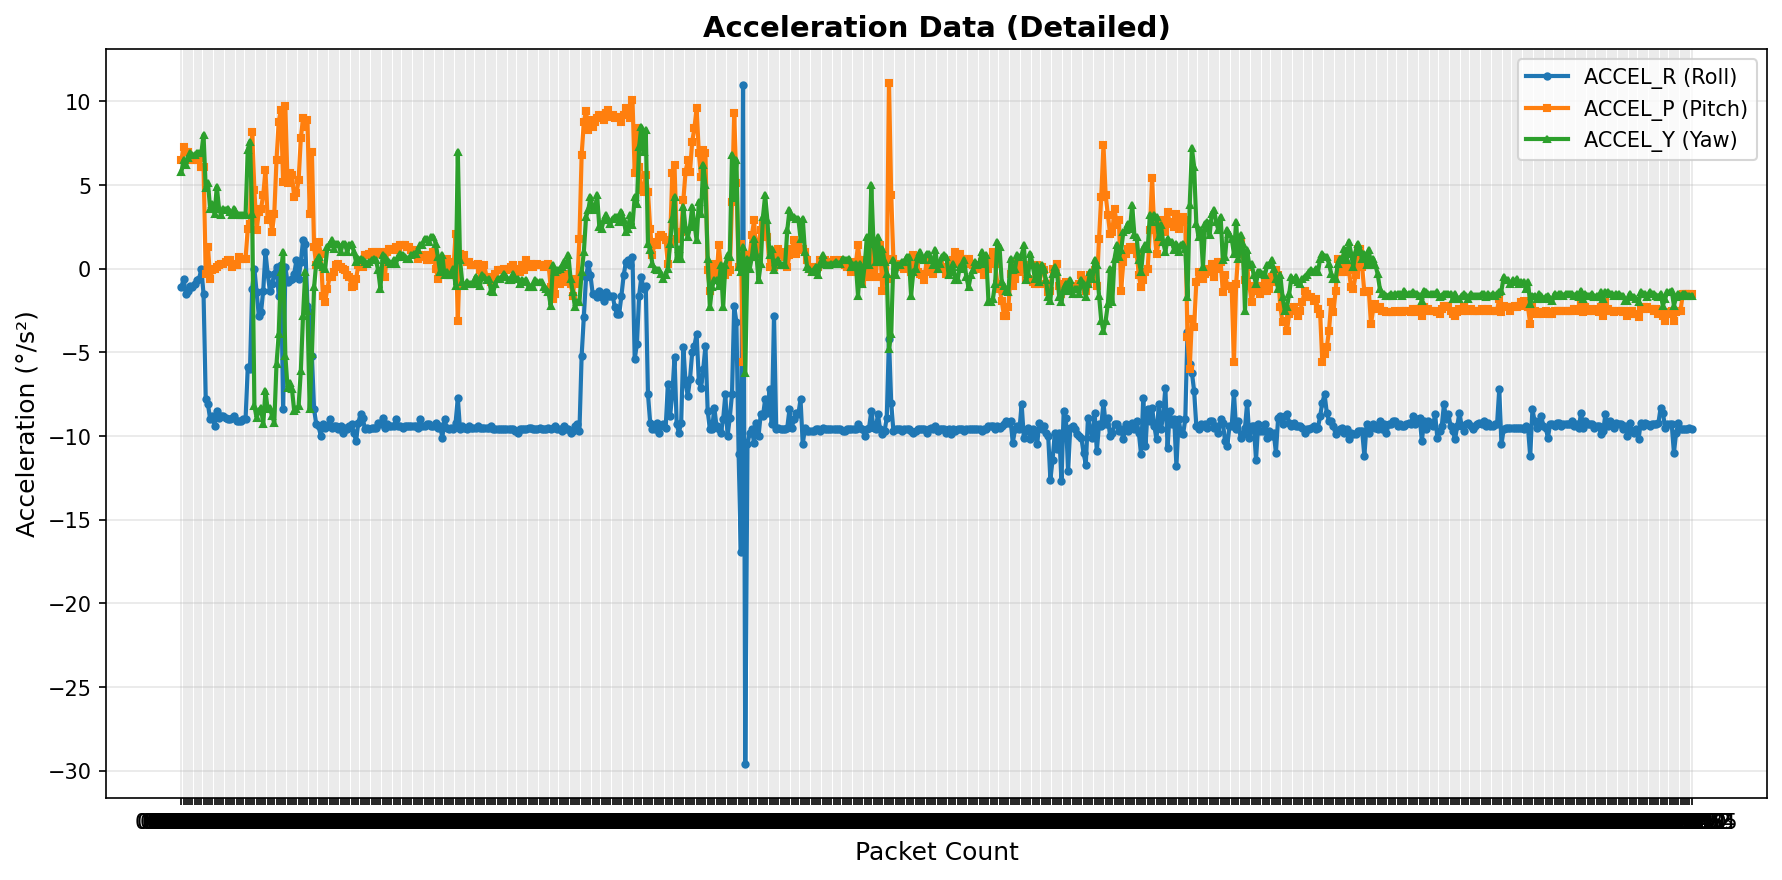
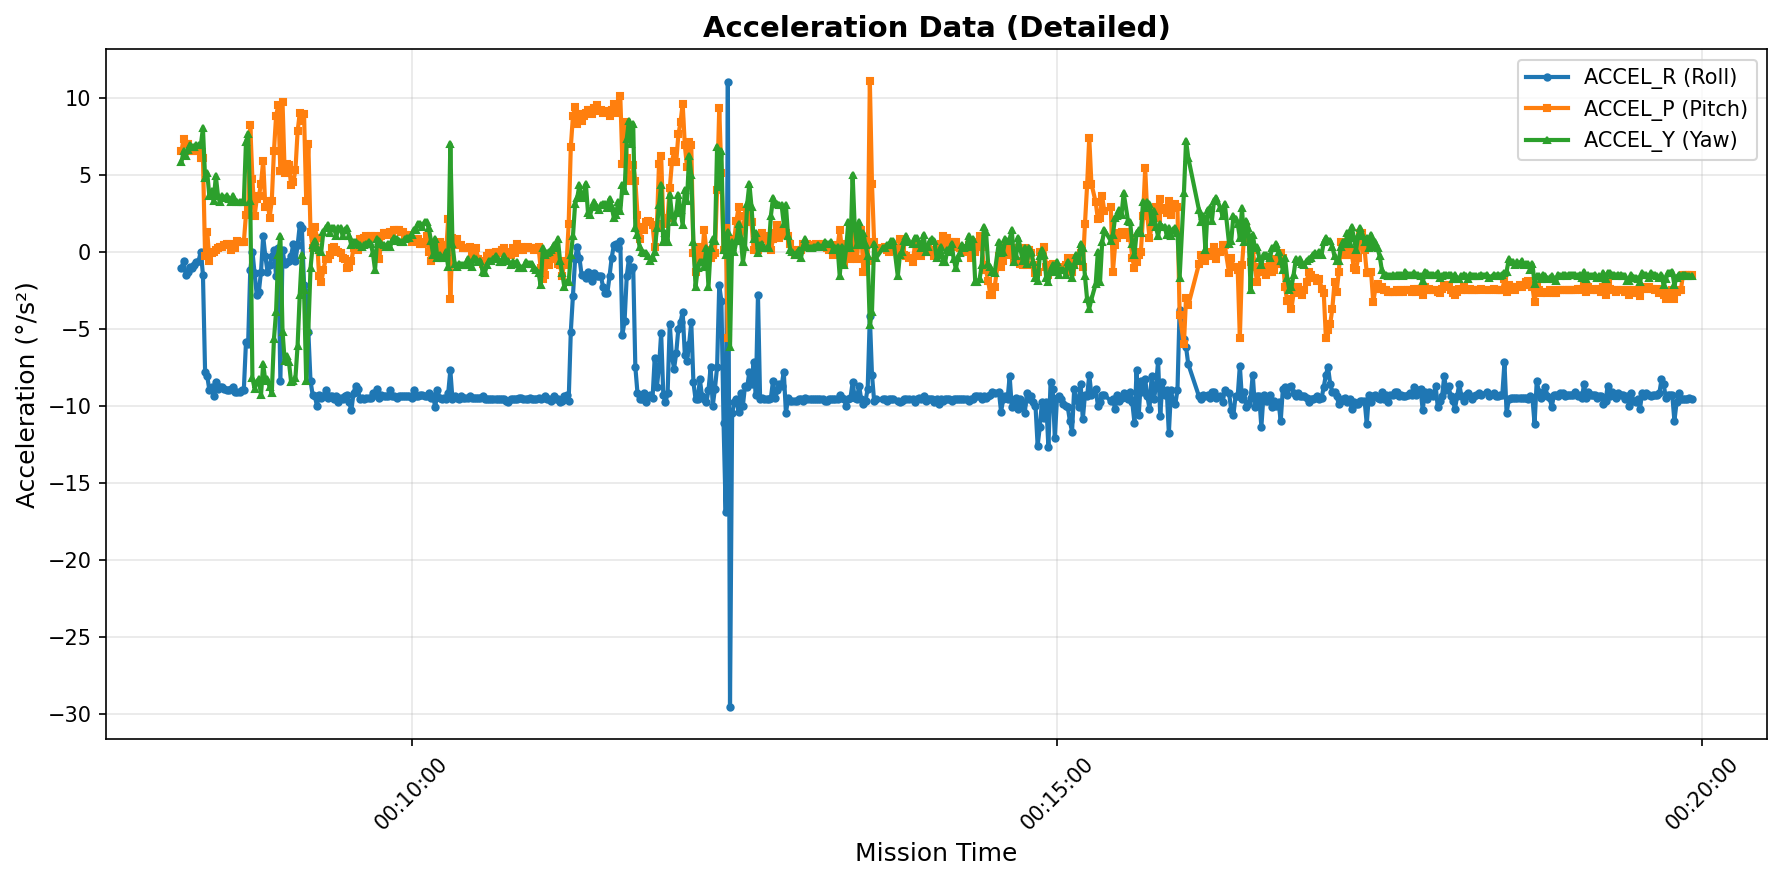
graphs png plot from csv

diff --git a/Ground-Station/plot-csv.py b/Ground-Station/plot-csv.py
@@ -1,10 +1,12 @@
 import pandas as pd
 import matplotlib.pyplot as plt
+import matplotlib.dates as mdates
 import os
 from pathlib import Path
 
 # Configuration
-CSV_FILE = "Flight_1083_telemetry_2026-04-04_11-15-24.csv"  # Update with your CSV filename
+# CSV_FILE = "Flight_1083_telemetry_2026-04-10_09-03-54.csv"  # Update with your CSV filename
+CSV_FILE = "Flight_1083_telemetry_2026-04-04_11-15-24.csv"
 OUTPUT_DIR = "plots"
 
 # Create output directory if it doesn't exist
@@ -15,67 +17,126 @@ try:
     df = pd.read_csv(CSV_FILE)
     print(f"Successfully loaded CSV file with {len(df)} rows")
     print(f"Columns: {df.columns.tolist()}")
+    
+    # The second column (MISSION_TIME in header) actually contains TEAM_ID values
+    # The third column (PACKET_COUNT in header) actually contains MISSION_TIME values
+    # So we need to swap them
+    if 'MISSION_TIME' in df.columns and 'PACKET_COUNT' in df.columns:
+        # Check if MISSION_TIME contains time format (HH:MM:SS) in third column
+        actual_mission_time = df.columns[2]  # This should be PACKET_COUNT but contains times
+        if df.iloc[0][2].__class__.__name__ == 'str' and ':' in str(df.iloc[0][2]):
+            # Swap the data
+            temp = df['MISSION_TIME'].copy()
+            df['MISSION_TIME'] = df['PACKET_COUNT']
+            df['PACKET_COUNT'] = temp
+            print("Note: Swapped MISSION_TIME and PACKET_COUNT columns (they were misaligned)")
+    
+    # Convert numeric columns to float, replacing any non-numeric values with NaN
+    numeric_columns = ['ALTITUDE', 'ACCEL_R', 'ACCEL_P', 'ACCEL_Y', 'GYRO_R', 'GYRO_P', 'GYRO_Y', 
+                       'CURRENT', 'VOLTAGE', 'TEMPERATURE', 'PRESSURE', 'PACKET_COUNT']
+    for col in numeric_columns:
+        if col in df.columns:
+            df[col] = pd.to_numeric(df[col], errors='coerce')
+    
+    # Keep MISSION_TIME as string for x-axis (more reliable for plotting)
+    df['MISSION_TIME'] = df['MISSION_TIME'].astype(str)
+    
+    # Convert MISSION_TIME to datetime for better x-axis formatting
+    df['MISSION_TIME_DT'] = pd.to_datetime(df['MISSION_TIME'], format='%H:%M:%S', errors='coerce')
+    
+    # Check for data before and after cleaning
+    print(f"Rows before cleaning: {len(df)}")
+    print(f"Sample data:\n{df.head()}")
+    
+    # Drop rows with NaN values in numeric columns only
+    df = df.dropna(subset=['ALTITUDE'])
+    print(f"After cleaning: {len(df)} rows with valid data")
+    print(f"Data types:\n{df.dtypes}")
+    print(f"\nData summary:\n{df[['MISSION_TIME', 'ALTITUDE', 'ACCEL_R', 'VOLTAGE', 'CURRENT']].head(10)}")
+    
 except FileNotFoundError:
     print(f"Error: Could not find {CSV_FILE}")
     exit(1)
 
 # Create figure with multiple subplots
 fig, axes = plt.subplots(3, 2, figsize=(15, 12))
-fig.suptitle('CanSat Telemetry Data', fontsize=16, fontweight='bold')
+fig.suptitle(f'CanSat Telemetry Data - {CSV_FILE}', fontsize=16, fontweight='bold')
 
-# 1. Altitude vs Packet Count
-axes[0, 0].plot(df['PACKET_COUNT'], df['ALTITUDE'], marker='o', linestyle='-', linewidth=1, markersize=3, color='blue')
-axes[0, 0].set_title('Altitude vs Packet Count')
-axes[0, 0].set_xlabel('Packet Count')
+# 1. Altitude vs Mission Time
+axes[0, 0].plot(df['MISSION_TIME_DT'], df['ALTITUDE'], marker='o', linestyle='-', linewidth=1, markersize=3, color='blue')
+axes[0, 0].set_title('Altitude vs Mission Time')
+axes[0, 0].set_xlabel('Mission Time')
 axes[0, 0].set_ylabel('Altitude (m)')
+axes[0, 0].xaxis.set_major_locator(mdates.AutoDateLocator())
+axes[0, 0].xaxis.set_major_formatter(mdates.DateFormatter('%H:%M:%S'))
+axes[0, 0].tick_params(axis='x', rotation=45)
 axes[0, 0].grid(True, alpha=0.3)
 
 # 2. Acceleration (X, Y, Z)
-axes[0, 1].plot(df['PACKET_COUNT'], df['ACCEL_R'], label='ACCEL_R', marker='o', linestyle='-', linewidth=1, markersize=2)
-axes[0, 1].plot(df['PACKET_COUNT'], df['ACCEL_P'], label='ACCEL_P', marker='s', linestyle='-', linewidth=1, markersize=2)
-axes[0, 1].plot(df['PACKET_COUNT'], df['ACCEL_Y'], label='ACCEL_Y', marker='^', linestyle='-', linewidth=1, markersize=2)
+axes[0, 1].plot(df['MISSION_TIME_DT'], df['ACCEL_R'], label='ACCEL_R', marker='o', linestyle='-', linewidth=1, markersize=2)
+axes[0, 1].plot(df['MISSION_TIME_DT'], df['ACCEL_P'], label='ACCEL_P', marker='s', linestyle='-', linewidth=1, markersize=2)
+axes[0, 1].plot(df['MISSION_TIME_DT'], df['ACCEL_Y'], label='ACCEL_Y', marker='^', linestyle='-', linewidth=1, markersize=2)
 axes[0, 1].set_title('Acceleration (°/s²)')
-axes[0, 1].set_xlabel('Packet Count')
+axes[0, 1].set_xlabel('Mission Time')
 axes[0, 1].set_ylabel('Acceleration (°/s²)')
+axes[0, 1].xaxis.set_major_locator(mdates.AutoDateLocator())
+axes[0, 1].xaxis.set_major_formatter(mdates.DateFormatter('%H:%M:%S'))
+axes[0, 1].tick_params(axis='x', rotation=45)
 axes[0, 1].legend(loc='best')
 axes[0, 1].grid(True, alpha=0.3)
 
 # 3. Rotation Rate (X, Y, Z)
-axes[1, 0].plot(df['PACKET_COUNT'], df['GYRO_R'], label='GYRO_R', marker='o', linestyle='-', linewidth=1, markersize=2)
-axes[1, 0].plot(df['PACKET_COUNT'], df['GYRO_P'], label='GYRO_P', marker='s', linestyle='-', linewidth=1, markersize=2)
-axes[1, 0].plot(df['PACKET_COUNT'], df['GYRO_Y'], label='GYRO_Y', marker='^', linestyle='-', linewidth=1, markersize=2)
+axes[1, 0].plot(df['MISSION_TIME_DT'], df['GYRO_R'], label='GYRO_R', marker='o', linestyle='-', linewidth=1, markersize=2)
+axes[1, 0].plot(df['MISSION_TIME_DT'], df['GYRO_P'], label='GYRO_P', marker='s', linestyle='-', linewidth=1, markersize=2)
+axes[1, 0].plot(df['MISSION_TIME_DT'], df['GYRO_Y'], label='GYRO_Y', marker='^', linestyle='-', linewidth=1, markersize=2)
 axes[1, 0].set_title('Rotation Rate (°/s)')
-axes[1, 0].set_xlabel('Packet Count')
+axes[1, 0].set_xlabel('Mission Time')
 axes[1, 0].set_ylabel('Rotation Rate (°/s)')
+axes[1, 0].xaxis.set_major_locator(mdates.AutoDateLocator())
+axes[1, 0].xaxis.set_major_formatter(mdates.DateFormatter('%H:%M:%S'))
+axes[1, 0].tick_params(axis='x', rotation=45)
 axes[1, 0].legend(loc='best')
 axes[1, 0].grid(True, alpha=0.3)
 
-# 4. Current vs Packet Count
-axes[1, 1].plot(df['PACKET_COUNT'], df['CURRENT'], marker='o', linestyle='-', linewidth=1, markersize=3, color='green')
-axes[1, 1].set_title('Current vs Packet Count')
-axes[1, 1].set_xlabel('Packet Count')
-axes[1, 1].set_ylabel('Current (A)')
-axes[1, 1].grid(True, alpha=0.3)
+# 4. Current and Voltage vs Mission Time (dual y-axis)
+ax_current = axes[1, 1]
+ax_voltage = ax_current.twinx()
 
-# 5. Voltage vs Packet Count
-axes[2, 0].plot(df['PACKET_COUNT'], df['VOLTAGE'], marker='o', linestyle='-', linewidth=1, markersize=3, color='red')
-axes[2, 0].set_title('Voltage vs Packet Count')
-axes[2, 0].set_xlabel('Packet Count')
-axes[2, 0].set_ylabel('Voltage (V)')
-axes[2, 0].grid(True, alpha=0.3)
+line1 = ax_current.plot(df['MISSION_TIME_DT'], df['CURRENT'], marker='o', linestyle='-', linewidth=2, markersize=3, color='green', label='Current')
+line2 = ax_voltage.plot(df['MISSION_TIME_DT'], df['VOLTAGE'], marker='s', linestyle='-', linewidth=2, markersize=3, color='red', label='Voltage')
 
-# 6. Temperature and Pressure
-ax_temp = axes[2, 1]
+ax_current.set_title('Current and Voltage vs Mission Time')
+ax_current.set_xlabel('Mission Time')
+ax_current.set_ylabel('Current (A)', color='green')
+ax_voltage.set_ylabel('Voltage (V)', color='red')
+ax_current.tick_params(axis='y', labelcolor='green')
+ax_voltage.tick_params(axis='y', labelcolor='red')
+ax_current.xaxis.set_major_locator(mdates.AutoDateLocator())
+ax_current.xaxis.set_major_formatter(mdates.DateFormatter('%H:%M:%S'))
+ax_current.tick_params(axis='x', rotation=45)
+ax_current.grid(True, alpha=0.3)
+
+# Combine legends
+lines = line1 + line2
+labels = [l.get_label() for l in lines]
+ax_current.legend(lines, labels, loc='best')
+
+# 5. Temperature and Pressure (moved to position [2, 0])
+axes[2, 0].clear()
+ax_temp = axes[2, 0]
 ax_press = ax_temp.twinx()
 
-line1 = ax_temp.plot(df['PACKET_COUNT'], df['TEMPERATURE'], marker='o', linestyle='-', linewidth=1, markersize=2, color='orange', label='Temperature')
-line2 = ax_press.plot(df['PACKET_COUNT'], df['PRESSURE'], marker='s', linestyle='-', linewidth=1, markersize=2, color='purple', label='Pressure')
+line1 = ax_temp.plot(df['MISSION_TIME_DT'], df['TEMPERATURE'], marker='o', linestyle='-', linewidth=1, markersize=2, color='orange', label='Temperature')
+line2 = ax_press.plot(df['MISSION_TIME_DT'], df['PRESSURE'], marker='s', linestyle='-', linewidth=1, markersize=2, color='purple', label='Pressure')
 
-ax_temp.set_title('Temperature and Pressure vs Packet Count')
-ax_temp.set_xlabel('Packet Count')
+ax_temp.set_title('Temperature and Pressure vs Mission Time')
+ax_temp.set_xlabel('Mission Time')
 ax_temp.set_ylabel('Temperature (°C)', color='orange')
 ax_press.set_ylabel('Pressure (hPa)', color='purple')
 ax_temp.tick_params(axis='y', labelcolor='orange')
+ax_temp.xaxis.set_major_locator(mdates.AutoDateLocator())
+ax_temp.xaxis.set_major_formatter(mdates.DateFormatter('%H:%M:%S'))
+ax_temp.tick_params(axis='x', rotation=45)
 ax_press.tick_params(axis='y', labelcolor='purple')
 ax_temp.grid(True, alpha=0.3)
 
@@ -84,16 +145,30 @@ lines = line1 + line2
 labels = [l.get_label() for l in lines]
 ax_temp.legend(lines, labels, loc='best')
 
+
+# # 6. Packet Count vs Mission Time
+# axes[2, 1].plot(df['MISSION_TIME_DT'], df['PACKET_COUNT'], marker='o', linestyle='-', linewidth=1, markersize=3, color='darkblue')
+# axes[2, 1].set_title('Packet Count vs Mission Time')
+# axes[2, 1].set_xlabel('Mission Time')
+# axes[2, 1].set_ylabel('Packet Count')
+# axes[2, 1].xaxis.set_major_locator(mdates.AutoDateLocator())
+# axes[2, 1].xaxis.set_major_formatter(mdates.DateFormatter('%H:%M:%S'))
+# axes[2, 1].tick_params(axis='x', rotation=45)
+# axes[2, 1].grid(True, alpha=0.3)
+
 plt.tight_layout()
 plt.savefig(os.path.join(OUTPUT_DIR, 'telemetry_overview.png'), dpi=150, bbox_inches='tight')
 print(f"Saved: {os.path.join(OUTPUT_DIR, 'telemetry_overview.png')}")
 
 # Create individual high-detail plots
 fig2, ax = plt.subplots(figsize=(12, 6))
-ax.plot(df['PACKET_COUNT'], df['ALTITUDE'], marker='o', linestyle='-', linewidth=2, markersize=4, color='blue')
+ax.plot(df['MISSION_TIME_DT'], df['ALTITUDE'], marker='o', linestyle='-', linewidth=2, markersize=4, color='blue')
 ax.set_title('Altitude Profile (Detailed)', fontsize=14, fontweight='bold')
-ax.set_xlabel('Packet Count', fontsize=12)
+ax.set_xlabel('Mission Time', fontsize=12)
 ax.set_ylabel('Altitude (m)', fontsize=12)
+ax.xaxis.set_major_locator(mdates.AutoDateLocator())
+ax.xaxis.set_major_formatter(mdates.DateFormatter('%H:%M:%S'))
+ax.tick_params(axis='x', rotation=45)
 ax.grid(True, alpha=0.3)
 plt.tight_layout()
 plt.savefig(os.path.join(OUTPUT_DIR, 'altitude_detailed.png'), dpi=150, bbox_inches='tight')
@@ -101,12 +176,15 @@ print(f"Saved: {os.path.join(OUTPUT_DIR, 'altitude_detailed.png')}")
 
 # Create acceleration detailed plot
 fig3, ax = plt.subplots(figsize=(12, 6))
-ax.plot(df['PACKET_COUNT'], df['ACCEL_R'], label='ACCEL_R (Roll)', linewidth=2, marker='o', markersize=3)
-ax.plot(df['PACKET_COUNT'], df['ACCEL_P'], label='ACCEL_P (Pitch)', linewidth=2, marker='s', markersize=3)
-ax.plot(df['PACKET_COUNT'], df['ACCEL_Y'], label='ACCEL_Y (Yaw)', linewidth=2, marker='^', markersize=3)
+ax.plot(df['MISSION_TIME_DT'], df['ACCEL_R'], label='ACCEL_R (Roll)', linewidth=2, marker='o', markersize=3)
+ax.plot(df['MISSION_TIME_DT'], df['ACCEL_P'], label='ACCEL_P (Pitch)', linewidth=2, marker='s', markersize=3)
+ax.plot(df['MISSION_TIME_DT'], df['ACCEL_Y'], label='ACCEL_Y (Yaw)', linewidth=2, marker='^', markersize=3)
 ax.set_title('Acceleration Data (Detailed)', fontsize=14, fontweight='bold')
-ax.set_xlabel('Packet Count', fontsize=12)
+ax.set_xlabel('Mission Time', fontsize=12)
 ax.set_ylabel('Acceleration (°/s²)', fontsize=12)
+ax.xaxis.set_major_locator(mdates.AutoDateLocator())
+ax.xaxis.set_major_formatter(mdates.DateFormatter('%H:%M:%S'))
+ax.tick_params(axis='x', rotation=45)
 ax.legend(loc='best', fontsize=10)
 ax.grid(True, alpha=0.3)
 plt.tight_layout()
@@ -115,12 +193,15 @@ print(f"Saved: {os.path.join(OUTPUT_DIR, 'acceleration_detailed.png')}")
 
 # Create rotation rate detailed plot
 fig4, ax = plt.subplots(figsize=(12, 6))
-ax.plot(df['PACKET_COUNT'], df['GYRO_R'], label='GYRO_R (Roll)', linewidth=2, marker='o', markersize=3)
-ax.plot(df['PACKET_COUNT'], df['GYRO_P'], label='GYRO_P (Pitch)', linewidth=2, marker='s', markersize=3)
-ax.plot(df['PACKET_COUNT'], df['GYRO_Y'], label='GYRO_Y (Yaw)', linewidth=2, marker='^', markersize=3)
+ax.plot(df['MISSION_TIME_DT'], df['GYRO_R'], label='GYRO_R (Roll)', linewidth=2, marker='o', markersize=3)
+ax.plot(df['MISSION_TIME_DT'], df['GYRO_P'], label='GYRO_P (Pitch)', linewidth=2, marker='s', markersize=3)
+ax.plot(df['MISSION_TIME_DT'], df['GYRO_Y'], label='GYRO_Y (Yaw)', linewidth=2, marker='^', markersize=3)
 ax.set_title('Rotation Rate Data (Detailed)', fontsize=14, fontweight='bold')
-ax.set_xlabel('Packet Count', fontsize=12)
+ax.set_xlabel('Mission Time', fontsize=12)
 ax.set_ylabel('Rotation Rate (°/s)', fontsize=12)
+ax.xaxis.set_major_locator(mdates.AutoDateLocator())
+ax.xaxis.set_major_formatter(mdates.DateFormatter('%H:%M:%S'))
+ax.tick_params(axis='x', rotation=45)
 ax.legend(loc='best', fontsize=10)
 ax.grid(True, alpha=0.3)
 plt.tight_layout()
@@ -129,16 +210,59 @@ print(f"Saved: {os.path.join(OUTPUT_DIR, 'rotation_rate_detailed.png')}")
 
 # Create power profile plot
 fig5, ax = plt.subplots(figsize=(12, 6))
-ax.plot(df['PACKET_COUNT'], df['VOLTAGE'], label='Voltage (V)', linewidth=2, marker='o', markersize=3, color='red')
-ax.plot(df['PACKET_COUNT'], df['CURRENT'], label='Current (A)', linewidth=2, marker='s', markersize=3, color='green')
-ax.set_title('Power System Data (Voltage & Current)', fontsize=14, fontweight='bold')
-ax.set_xlabel('Packet Count', fontsize=12)
-ax.set_ylabel('Value', fontsize=12)
-ax.legend(loc='best', fontsize=10)
-ax.grid(True, alpha=0.3)
+ax_current = ax
+ax_voltage = ax.twinx()
+
+line1 = ax_current.plot(df['MISSION_TIME_DT'], df['CURRENT'], marker='o', linestyle='-', linewidth=2, markersize=3, color='green', label='Current (A)')
+line2 = ax_voltage.plot(df['MISSION_TIME_DT'], df['VOLTAGE'], marker='s', linestyle='-', linewidth=2, markersize=3, color='red', label='Voltage (V)')
+
+ax_current.set_title('Power System Data (Voltage & Current)', fontsize=14, fontweight='bold')
+ax_current.set_xlabel('Mission Time', fontsize=12)
+ax_current.set_ylabel('Current (A)', fontsize=12, color='green')
+ax_voltage.set_ylabel('Voltage (V)', fontsize=12, color='red')
+ax_current.tick_params(axis='y', labelcolor='green')
+ax_voltage.tick_params(axis='y', labelcolor='red')
+ax_current.xaxis.set_major_locator(mdates.AutoDateLocator())
+ax_current.xaxis.set_major_formatter(mdates.DateFormatter('%H:%M:%S'))
+ax_current.tick_params(axis='x', rotation=45)
+ax_current.grid(True, alpha=0.3)
+
+# Combine legends
+lines = line1 + line2
+labels = [l.get_label() for l in lines]
+ax_current.legend(lines, labels, loc='best', fontsize=10)
+
 plt.tight_layout()
 plt.savefig(os.path.join(OUTPUT_DIR, 'power_profile.png'), dpi=150, bbox_inches='tight')
 print(f"Saved: {os.path.join(OUTPUT_DIR, 'power_profile.png')}")
+
+# Create temperature and pressure detailed plot
+fig6, ax = plt.subplots(figsize=(12, 6))
+ax_temp = ax
+ax_press = ax_temp.twinx()
+
+line1 = ax_temp.plot(df['MISSION_TIME_DT'], df['TEMPERATURE'], marker='o', linestyle='-', linewidth=2, markersize=3, color='orange', label='Temperature (°C)')
+line2 = ax_press.plot(df['MISSION_TIME_DT'], df['PRESSURE'], marker='s', linestyle='-', linewidth=2, markersize=3, color='purple', label='Pressure (hPa)')
+
+ax_temp.set_title('Temperature and Pressure Data (Detailed)', fontsize=14, fontweight='bold')
+ax_temp.set_xlabel('Mission Time', fontsize=12)
+ax_temp.set_ylabel('Temperature (°C)', fontsize=12, color='orange')
+ax_press.set_ylabel('Pressure (hPa)', fontsize=12, color='purple')
+ax_temp.tick_params(axis='y', labelcolor='orange')
+ax_temp.xaxis.set_major_locator(mdates.AutoDateLocator())
+ax_temp.xaxis.set_major_formatter(mdates.DateFormatter('%H:%M:%S'))
+ax_temp.tick_params(axis='x', rotation=45)
+ax_press.tick_params(axis='y', labelcolor='purple')
+ax_temp.grid(True, alpha=0.3)
+
+# Combine legends
+lines = line1 + line2
+labels = [l.get_label() for l in lines]
+ax_temp.legend(lines, labels, loc='best', fontsize=10)
+
+plt.tight_layout()
+plt.savefig(os.path.join(OUTPUT_DIR, 'temperature_pressure_detailed.png'), dpi=150, bbox_inches='tight')
+print(f"Saved: {os.path.join(OUTPUT_DIR, 'temperature_pressure_detailed.png')}")
 
 # Print statistics
 print("\n=== Telemetry Statistics ===")
